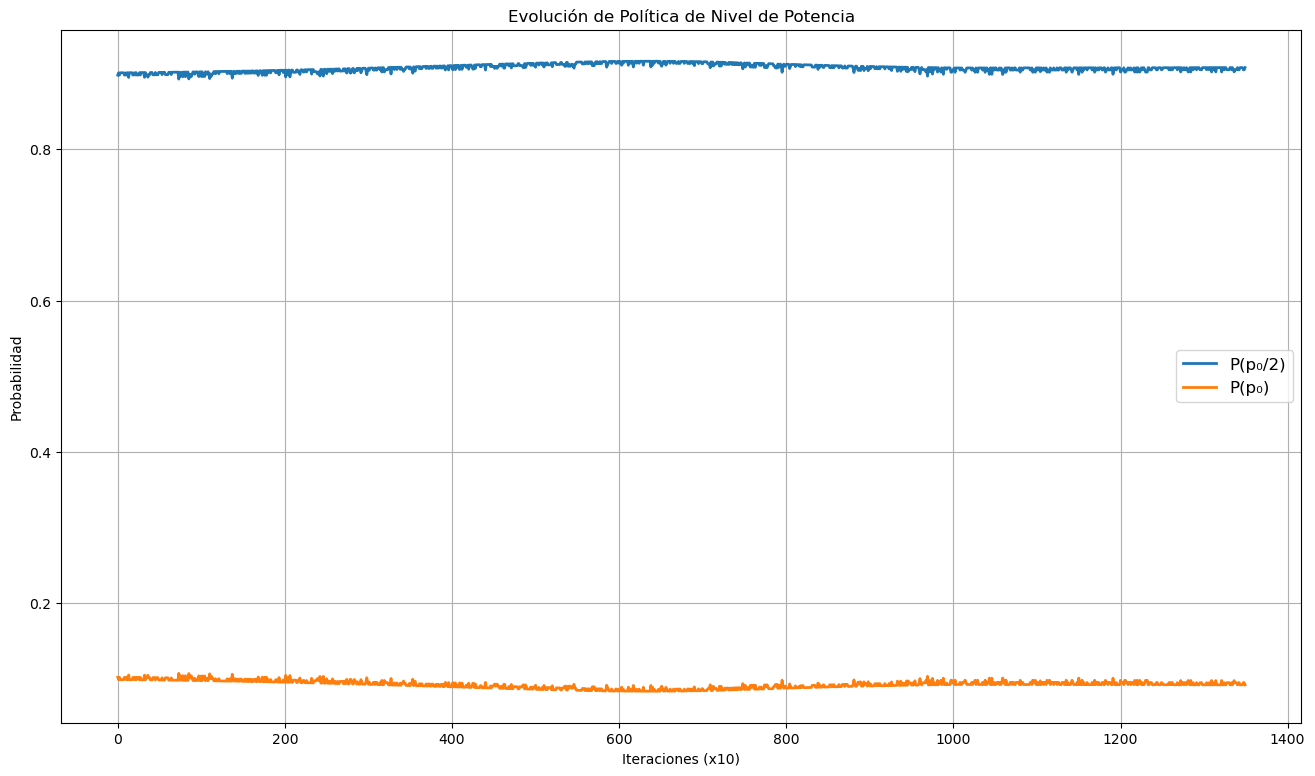
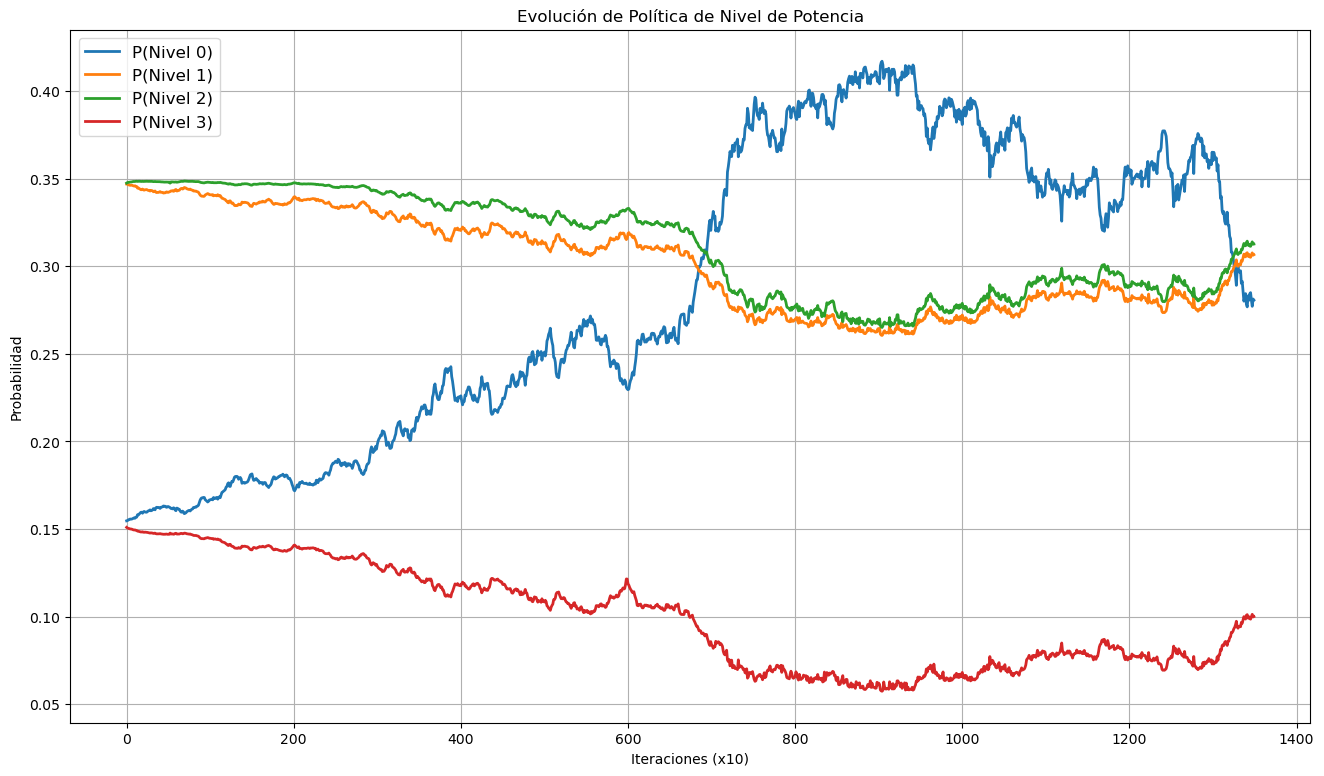
actualizo

diff --git a/RUN/train.py b/RUN/train.py
@@ -35,7 +35,7 @@ from utils import nuevo_get_rates
 from utils import graphs_to_tensor_synthetic
 
 
-def run(building_id=990, b5g=False, num_links=5, num_channels=3, num_layers=5, K=3,
+def run(building_id=990, b5g=False, num_links=5, num_channels=5, num_layers=5, K=3,
         batch_size=64, epochs=100, eps=5e-5, mu_lr=1e-4, synthetic=1, rn=100, rn1=100,
         p0=4, sigma=1e-4):   
 
@@ -56,16 +56,18 @@ def run(building_id=990, b5g=False, num_links=5, num_channels=3, num_layers=5, K
         dataset = get_gnn_inputs(x_tensor, channel_matrix_tensor)
         dataloader = DataLoader(dataset, batch_size=batch_size, shuffle=True, drop_last=True)
 
-    mu_k = torch.ones((1, 1), requires_grad=False)
+    mu_k = torch.ones((num_links,), requires_grad=False)
 
-    pmax = 4
+    pmax = 10**((6)/10)
+
+    #pmax = 4
 
     # ---- Definición de red ----
     input_dim = 1
     hidden_dim = 1
 
     # Definí los niveles de potencia discretos
-    power_levels = torch.tensor([p0/2, p0]) 
+    power_levels = torch.tensor([pmax/3, pmax/2, 2*pmax/3, pmax]) 
     num_power_levels = len(power_levels)
 
     # Arquitectura: 3 decisiones independientes
@@ -141,10 +143,11 @@ def run(building_id=990, b5g=False, num_links=5, num_channels=3, num_layers=5, K
                 selected_powers = power_actions[batch_idx_tx, link_idx_tx]
                 
                 phi[batch_idx_tx, link_idx_tx, selected_channels] = power_levels.to(phi.device)[selected_powers]
-
+            
             # --- constraint de potencia ---
-            power_constr = power_constraint(phi, pmax).unsqueeze(-1)   # [batch_size, 1]
-            power_constr_mean = torch.mean(power_constr, dim=0)
+            pmax_ap = 0.6*pmax*torch.ones((num_links,))
+            power_constr = power_constraint(phi, pmax_ap)#.unsqueeze(-1)   # [batch_size, 1]
+            power_constr_mean = torch.mean(power_constr, dim=(0,1))
 
             # Calcula rates
             rates = nuevo_get_rates(phi, channel_matrix_batch, sigma)  # [batch_size, num_links]
@@ -157,12 +160,14 @@ def run(building_id=990, b5g=False, num_links=5, num_channels=3, num_layers=5, K
             mu_k = mu_update(mu_k, power_constr, eps)
 
             # Cálculo del costo y backprop
-            cost = sum_rate + (power_constr * mu_k)   # [batch_size,1]
+            penalty_ap = power_constr * mu_k.unsqueeze(0)
+            total_penalty = penalty_ap.sum(dim=1).unsqueeze(-1)
+            cost = sum_rate +  total_penalty  # [batch_size,1]
             loss = cost * log_p_sum                   # [batch_size,1]
             loss_mean = torch.mean(loss, dim=0)
 
             loss_mean.backward()
-            torch.nn.utils.clip_grad_norm_(gnn_model.parameters(), max_norm=1.0)
+            #torch.nn.utils.clip_grad_norm_(gnn_model.parameters(), max_norm=1.0)
             optimizer.step()
             optimizer.zero_grad()
 
@@ -229,7 +234,7 @@ if __name__ == '__main__':
     parser.add_argument('--building_id', type=int, default=990)
     parser.add_argument('--b5g', type=int, default=0)
     parser.add_argument('--num_links', type=int, default=5)
-    parser.add_argument('--num_channels', type=int, default=3)
+    parser.add_argument('--num_channels', type=int, default=5)
     parser.add_argument('--num_layers', type=int, default=5)
     parser.add_argument('--k', type=int, default=3)
     parser.add_argument('--epochs', type=int, default=150)

diff --git a/RUN/utils.py b/RUN/utils.py
@@ -181,7 +181,7 @@ def objective_function(rates):
 
 
 def power_constraint(phi, pmax):
-    sum_phi = torch.sum(phi, dim=(1,2))
+    sum_phi = torch.sum(phi, dim=(2))
     return (sum_phi - pmax)
 
 def mu_update(mu_k, power_constr, eps):
